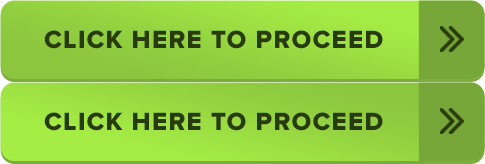
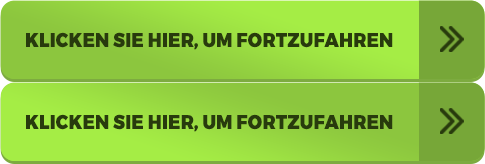
few more translations

Changed region(s): [[0.0309, 0.1829, 0.8351, 0.3049], [0.0309, 0.6707, 0.8351, 0.7927]]

diff --git a/cashformula.com/css/new_mem_style.css?v=3.css b/cashformula.com/css/new_mem_style.css?v=3.css
@@ -160,7 +160,7 @@ img{
 	margin-bottom: 25px;
 }
 #headline-area h2 {
-	font-size: 28px;
+	font-size: 24px;
 	color: #FFFFFF;
 	font-family: 'Gotham Black';
 	padding: 0px;
@@ -168,7 +168,7 @@ img{
 	text-align:left;
 }
 #headline-area h3 {
-	font-size: 28px;
+	font-size: 20px;
 	color: #FFFFFF;
 	font-family: 'Gotham Black';
 	margin: 0px;
@@ -3292,7 +3292,7 @@ button.close { opacity:1 !important;}
 
 .do_next_exit { border:4px solid #feb324; padding:10px;}
 .do_next_exit img { float:left;}
-.do_next_exit p {letter-spacing: 4px; padding:0px 0 0 70px; margin:0px; color:#feb324; font-size:22px;font-family: "Gotham Black";}
+.do_next_exit p {letter-spacing: 4px; padding:0px 0 0 70px; margin:0px; color:#feb324; font-size:17px;font-family: "Gotham Black";}
 .do_next_exit p span { color:#fe6224; font-weight: normal;}
 .do_next_exit p label { letter-spacing: 0;display: block;font-family: "Gotham Bold"; font-weight: normal; font-size:12px; color:#fff;}
 .reminder_licence { text-align: center; color:#fff; padding:20px 0 0;}

diff --git a/cashformula.com/accessapproved.php b/cashformula.com/accessapproved.php
@@ -2,26 +2,20 @@
 <html xmlns="http://www.w3.org/1999/xhtml">
 <head>
   <script src="https://cdn.optimizely.com/js/6585910006.js"></script>
-  
   <meta http-equiv="Content-Type" content="text/html; charset=utf-8" />
-  <title>Only At CashFormula.com</title>
-    <meta name="description" content="Cash Formula multi-billion dollar loophole revealed">
-    <meta name="keywords" content="Cash Formula, Cash Formula Scam, Cash Formula Review">
+  <title>CashFormula-DE.com</title>
+  <meta name="description" content="Cash Formula multi-billion dollar loophole revealed">
+  <meta name="keywords" content="Cash Formula, Cash Formula Scam, Cash Formula Review">
   <meta name="viewport" content="width=device-width, initial-scale=1">
   <link rel='shortcut icon' href='images/favicon3.ico' type='image/x-icon'/>
-
   <!-- Bootstrap -->
   <link rel="stylesheet" type="text/css"  href="css/bootstrap-3.3.6.min.css">
   <link rel="stylesheet" type="text/css" href="css/font-awesome.min.css">
-
   <!-- Stylesheet -->
   <link rel="stylesheet" type="text/css"  href="css/new_mem_style.css%3Fv=3.css">
-  
-      
   <script src="https://ajax.googleapis.com/ajax/libs/jquery/1.11.3/jquery.min.js"></script>
-  
   <link rel="stylesheet" href="css/acord.css" media="screen" />
-    <link rel="stylesheet" href="css/popup.css%3Fv=1.css" media="screen" /><style>
+  <link rel="stylesheet" href="css/popup.css%3Fv=1.css" media="screen" /><style>
     #testi_row2, #testi_row3, #testi_row4{
         display: none;
     }
@@ -79,37 +73,33 @@
                         <div id="vid-screen">
                             <div class="wistia_responsive_padding" style="padding:56.25% 0 0 0;position:relative;">
                                 <div class="wistia_responsive_wrapper" style="height:100%;left:0;position:absolute;top:0;width:100%;">
-                                    <div id="wistia_3lkbyb089n" class="wistia_embed" style="width:100%;height:100%;">&nbsp;</div>
+                                    <iframe src="https://www.youtube.com/embed/V_YKwDkvnOk?controls=0&amp;showinfo=0&amp;rel=0&amp;title=0&amp;autohide=1&amp;wmode=transparent&amp;hd=1&amp;autoplay=0" allowtransparency="true" frameborder="0" scrolling="no" class="wistia_embed" name="wistia_embed" allowfullscreen mozallowfullscreen webkitallowfullscreen oallowfullscreen msallowfullscreen width="100%" height="100%" frameborder="0" allowfullscreen="allowfullscreen"></iframe>
                                 </div>
                             </div>
-                            <script charset="ISO-8859-1" src="http://fast.wistia.com/assets/external/E-v1.js"></script>
-                            <script>
-                                wistiaEmbed = Wistia.embed("3lkbyb089n", {videoFoam: true});
-                            </script>
                         </div>
                     </center>
                 </div>
                 <div class="col-md-6">
                     <div id="headline-area">
-                        <h5>WELCOME ABOARD!</h5>
-                        <h2 align="center">Click The Button Below To Secure <img src="images/green_down_arrow.png" alt="" style="vertical-align: bottom;"/></h2>
-                        <h3 align="center"><span class="orange-txt">One</span> of the Remaining <img src="images/white_logo_tm.png" alt="" align="absmiddle" /><!--<span class="register-logo">&trade;</span> --> Spots </h3>
+                        <h5>WILLKOMMEN AN BORD!</h5>
+                        <h2 align="center">Klicken Sie unten auf die Schaltfläche, um sich <img src="images/green_down_arrow.png" alt="" style="vertical-align: bottom;"/></h2>
+                        <h3 align="center"><span class="orange-txt">Einen</span> der verbleibenden Plätze zu <img src="images/white_logo_tm.png" alt="" align="absmiddle" /><!--<span class="register-logo">&trade;</span> --> sichern </h3>
                     </div>
                     <div class="clearfix"></div>
                     <div class="do_next_exit">
                         <img src="images/wait-icon2.png" alt="" align="absmiddle" />
                         <p>
-                            PLEASE <span>DO NOT</span> EXIT THIS PAGE
-                            <label>Or your spot will be given to the next person in line waiting to watch this video.</label>
+                            BITTE <span>VERLASSEN SIE</span> DIESE SEITE NICHT
+                            <label>Oder Ihr Platz wird an die nächste Person in der Reihe vergeben, die darauf wartet, sich dieses Video anzuschauen.</label>
                         </p>
                     </div>
                     <div class="clearfix"></div>
                     <div class="form-box1">
-                        <form id="form1" name="form1" method="post" action="accessapproved.php.html">
+                        <form id="form1" name="form1" method="post" action="accessapproved.php">
                             <div class="row">
                                 <div class="col-md-8 sub-btn2arr-n">
                                     <label>
-                                        <input name="" type="button" value="I Want My Free Account Now      &gt;&gt;" class="sub-btn2-n" onclick="gotoMem();"/>
+                                        <input name="" type="button" value="Ich will jetzt mein kostenloses Konto       &gt;&gt;" class="sub-btn2-n" onclick="gotoMem();"/>
                                     </label>
                                 </div>
                                 <div class="col-md-4">
@@ -117,8 +107,6 @@
                                 </div>
                             </div>
                         </form>
-                        <!-- <p align="center" class="gurantee-txt"><img src="images/lock-icon.png" alt=""  align="absmiddle" /> GUARANTEED SECURE ACCESS ENSURED BY TRUSTED COMPANIES</p>
-                        <p align="center" class="verify"><img src="images/verisign.png" alt=""  /> <img src="images/mcafee.png" alt=""  /> <img src="images/truste.png" alt="" /> <img src="images/norton.png" alt="" /></p> -->
                     </div>
 
                 </div>
@@ -133,10 +121,9 @@
                     <div class="fe1_testimonial">
                         <img src="ms/testys/claire3.png" alt="t1" />
                         <p>
-                            When I met Tim, he decided to give me something much more
-                            valuable than any job.  He gave me hope, he gave me the Formula.
-                            I turned it on and it’s never been off since.
-                            <span><label class="green-txt">Claire D.</label> made <label class="green-txt">$1,221,905.37</label> with the Cash Formula!</span>
+                            Als ich Tim traf, entschied er sich, mir etwas viel wertvolleres als irgendeinen Job zu geben. Er gab mir Hoffnung, er gab mir die Formula. Ich habe es angestellt und seither läuft es durch.
+                            <span><label class="green-txt">Claire D.</label> hat <label class="green-txt">1,221,905.37$</label> mit der Cash
+                                Formula-DE verdient!</span>
                         </p>
                     </div>
                 </div>
@@ -144,10 +131,9 @@
                     <div class="fe1_testimonial">
                         <img src="ms/testys/ron3.png" alt="t1" />
                         <p>
-                            I was one of Tim’s very first students.  I’ve been using the Cash
-                            Formula for a couple of years now and the Options Trading
-                            market has been the most profitable so far!  Tim - you are the man!
-                            <span><label class="green-txt">Ron W.</label> made <label class="green-txt">$5,301,629.71</label> with the Cash Formula!</span>
+                            Ich war einer der allerersten Studenten von Tim. Ich nutze die Cash Formula-DE jetzt seit ein paar Jahren und der Handel mit Optionen war bisher der profitabelste! Tim - Sie sind der Mann!
+                            <span><label class="green-txt">Ron W.</label> hat <label class="green-txt">5,301,629.71$</label> mit der Cash
+                                Formula-DE verdient!</span>
                         </p>
                     </div>
                 </div>
@@ -155,10 +141,10 @@
                     <div class="fe1_testimonial">
                         <img src="ms/testys/randy3.png" alt="t1" />
                         <p>
-                            The Cash Formula is totally hands off and I was never charged
-                            a dime for access, ever!  Tim and the Cash Formula totally
-                            changed my life forever!
-                            <span><label class="green-txt">Randy N.</label> made <label class="green-txt">$3,014,183.54</label> with the Cash Formula!</span>
+                            Die Cash Formula-DE funktioniert vollautomatisch ich musste niemals einen Cent für die Nutzung bezahlen! Tim und die Cash
+                            Formula-DE haben mein Leben für immer völlig verändert!
+                            <span><label class="green-txt">Randy N.</label> hat <label class="green-txt">3,014,183.54$</label> mit der Cash
+                                Formula-DE verdient!</span>
                         </p>
                     </div>
                 </div>
@@ -168,11 +154,9 @@
                     <div class="fe1_testimonial">
                         <img src="ms/testys/juan3.png" alt="t1" />
                         <p>
-                            My past life of being broke feels like a bad nightmare.  Now when
-                            I log into my bank account, I’m seeing multiple 6 figures!  This is
-                            my new reality and ever since I signed up for the Cash Formula, the
-                            money hasn’t stopped.  This is amazing Tim!
-                            <span><label class="green-txt">Juan R.</label> made <label class="green-txt">$778,469.09</label> with the Cash Formula!</span>
+                            Mein bisheriges Leben mit Schulden fühlt sich wie ein schlechter Albtraum an. Wenn ich mich jetzt in mein Bankkonto einlogge, sehe ich 6-stellige Zahlen! Dies ist meine neue Realität und seit ich mich für die Cash Formula-DE angemeldet habe, hat der Geldfluss nicht aufgehört. Dies ist unglaublich, Tim!
+                            <span><label class="green-txt">Juan R.</label> hat <label class="green-txt">778,469.09$</label> mit der Cash
+                                Formula-DE verdient!</span>
                         </p>
                     </div>
                 </div>
@@ -180,11 +164,9 @@
                     <div class="fe1_testimonial">
                         <img src="ms/testys/lauren3.png" alt="t1" />
                         <p>
-                            The Cash Formula saved my marriage!  The Formula allows
-                            you to see happiness in all areas of your life.  That’s the best
-                            part.  It’s funded all my creative ideas and I can’t say enough
-                            about Tim and the Cash Formula Team!
-                            <span><label class="green-txt">Lauren N.</label> made <label class="green-txt">$2,881,949.11</label> with the Cash Formula!</span>
+                            Die Cash Formula-DE hat meine Ehe gerettet! Die Formula ermöglicht Ihnen, Glück in allen Bereichen Ihres Lebens zu sehen. Das ist das Beste daran. Es hat alle meine kreativen Ideen gefördert und ich kann gar nicht genug über Tim und das Team von Cash Formula-DE sagen!
+                            <span><label class="green-txt">Lauren N.</label> hat <label class="green-txt">2,881,949.11$</label> mit der Cash
+                                Formula-DE verdient!</span>
                         </p>
                     </div>
                 </div>
@@ -192,11 +174,9 @@
                     <div class="fe1_testimonial">
                         <img src="ms/testys/julia3.png" alt="t1" />
                         <p>
-                            In the first 30 days I didn’t touch the money.  My first big
-                            withdrawal was $5,000 and I gave that money to my mom.
-                            My first big purchase was my new car - it was heavenly to
-                            step into my new Mercedes!
-                            <span><label class="green-txt">Julia L.</label> made <label class="green-txt">$947,172.55</label> with the Cash Formula!</span>
+                            In den ersten 30 Tagen habe ich das Geld nicht angefasst. Meine erste große Auszahlung war 5.000$ und ich gab das Geld meiner Mutter. Meine erste große Anschaffung war mein neues Auto - es war himmlisch, mich in meinen neuen Mercedes zu setzen!
+                            <span><label class="green-txt">Julia L.</label> hat <label class="green-txt">947,172.55$</label> mit der Cash
+                                Formula-DE verdient!</span>
                         </p>
                     </div>
                 </div>
@@ -206,10 +186,9 @@
                     <div class="fe1_testimonial">
                         <img src="ms/testys/ellen3.png" alt="t1" />
                         <p>
-                            I met Tim four years ago and have made hundreds of thousands
-                            of dollars as a result of using the Cash Formula.  I wouldn’t be
-                            where I am today if it wasn’t for Tim and the Cash Formula!
-                            <span><label class="green-txt">Ellen G.</label> made <label class="green-txt">$810,492.47</label> with the Cash Formula!</span>
+                            Ich traf Tim vor vier Jahren und habe durch die Nutzung der Cash Formula-DE Hunderttausende von Dollar verdient. Ohne Tim und die Cash Formula-DE wäre ich heute nicht dort, wo ich jetzt bin!
+                            <span><label class="green-txt">Ellen G.</label> hat <label class="green-txt">810,492.47$</label> mit der Cash
+                                Formula-DE verdient!</span>
                         </p>
                     </div>
                 </div>
@@ -217,10 +196,9 @@
                     <div class="fe1_testimonial">
                         <img src="ms/testys/clark3.png" alt="t1" />
                         <p>
-                            I haven’t shut this thing off a single minute since I initially signed
-                            up.  I was able to pay my back taxes and have much more money
-                            to spare.  I can’t thank you enough Tim!
-                            <span><label class="green-txt">Clark G.</label> made <label class="green-txt">$4,639,058.28</label> with the Cash Formula!</span>
+                            Ich habe dieses Ding nicht eine einzige Minute ausgeschaltet seit ich mich angemeldet habe. Ich konnte meine Steuern zurückzahlen und habe noch viel mehr Geld zum Sparen. Ich kann Ihnen nicht genug danken, Tim!
+                            <span><label class="green-txt">Clark G.</label> hat <label class="green-txt">4,639,058.28$</label> mit der Cash
+                                Formula-DE verdient!</span>
                         </p>
                     </div>
                 </div>
@@ -228,11 +206,9 @@
                     <div class="fe1_testimonial">
                         <img src="ms/testys/monique3.png" alt="t1" />
                         <p>
-                            I’ve invested a large portion of my earnings right back into the
-                            Cash Formula.  The system has generated a 76% return on my
-                            investment.  This is the most valuable and powerful system on
-                            the market today!
-                            <span><label class="green-txt">Monique S.</label> made <label class="green-txt">$1,629,827.45</label> with the Cash Formula!</span>
+                            Ich habe einen großen Teil meiner Einnahmen direkt zurück in die Cash Formula-DE investiert. Das System hat eine 76% Rendite auf mein Investment generiert. Dies ist heute das wertvollste und leistungsstärkste System auf dem Markt!
+                            <span><label class="green-txt">Monique S.</label> hat <label class="green-txt">1,629,827.45$</label> mit der Cash
+                                Formula-DE verdient!</span>
                         </p>
                     </div>
                 </div>
@@ -242,10 +218,9 @@
                     <div class="fe1_testimonial">
                         <img src="ms/testys/phillip3.png" alt="t1" />
                         <p>
-                            I’ve saved all the money made from the Cash Formula and
-                            it goes directly into a mutual fund where I get a decent return.
-                            My goal is to make as much as I can and let it last for generations.
-                            <span><label class="green-txt">Phillip L.</label> made <label class="green-txt">$3,855,613.94</label> with the Cash Formula!</span>
+                            Ich habe das gesamte, durch die Cash Formula-DE verdiente Geld gespart und es geht direkt in einen Investmentfonds, wo ich eine anständige Rendite bekomme. Mein Ziel ist, so viel wie möglich zu verdienen, damit es für Generationen reicht.
+                            <span><label class="green-txt">Phillip L.</label> hat <label class="green-txt">3,855,613.94$</label> mit der Cash
+                                Formula-DE verdient!</span>
                         </p>
                     </div>
                 </div>
@@ -253,10 +228,9 @@
                     <div class="fe1_testimonial">
                         <img src="ms/testys/richard3.png" alt="t1" />
                         <p>
-                            I got my wife a new wedding ring and we renewed our vows.
-                            That was my first large purchase thanks to the Cash Formula.
-                            Additionally, I’ve been reinvesting into stocks and bonds.
-                            <span><label class="green-txt">Richard M.</label> made <label class="green-txt">$2,881,949.11</label> with the Cash Formula!</span>
+                            Ich habe meiner Frau einen neuen Ehering gekauft und wir haben unsere Ehegelübde erneuert. Dank der Cash Formula-DE war das meine erste große Anschaffung. Darüber hinaus habe ich in Aktien und Anleihen reinvestiert.
+                            <span><label class="green-txt">Richard M.</label> hat <label class="green-txt">2,881,949.11$</label> mit der Cash
+                                Formula-DE verdient!</span>
                         </p>
                     </div>
                 </div>
@@ -264,10 +238,9 @@
                     <div class="fe1_testimonial">
                         <img src="ms/testys/louise3.png" alt="t1" />
                         <p>
-                            I have made over $10,000 in 3 days of using the Cash Formula.
-                            The Formula predicts this amount to double over the next
-                            few days.  Thanks Tim - Finally something that works!
-                            <span><label class="green-txt">Louise M.</label> made <label class="green-txt">$1,059,371.60</label> with the Cash Formula!</span>
+                            Ich habe in 3 Tagen über 10.000$ mit der Cash Formula-DE verdient. Die Formula prognostiziert eine Verdopplung dieses Betrags in den nächsten Tagen. Vielen Dank Tim - endlich etwas, das funktioniert!
+                            <span><label class="green-txt">Louise M.</label> hat <label class="green-txt">1,059,371.60$</label> mit der Cash
+                                Formula-DE verdient!</span>
                         </p>
                     </div>
                 </div>
@@ -281,14 +254,15 @@
     <div class="">
         <div class="row">
             <div class="col-md-5 copyright">
-                <img src="images/header-logo-tm3.png" alt="" width="184" height="31" align="absmiddle" /> &copy; 2016 CashFormula. All Rights Reserved.      </div>
+                <img src="images/header-logo-tm3.png" alt="" width="184" height="31" align="absmiddle" /> &copy; 2016 CashFormula-DE. Alle Rechte
+                vorbehalten.     </div>
             <div class="col-md-7 footer-links">
-                <a target="_blank" href="usdisclaimer.php">Government Disclaimer</a> |
-                <a target="_blank" href="privacy.php">Privacy Policy</a> |
-                <a target="_blank" href="tos.php">Terms</a> |
-                <a target="_blank" href="disclaimer.php">Earnings Disclaimer</a> |
-                <a target="_blank" href="anti_spam_policy.php">Spam Policy</a> |
-                <a href="mailto:support@cashformulamembersarea.com">Support</a>
+                <a target="_blank" href="usdisclaimer.php">Staatlicher Haftungsausschluss</a> |
+                <a target="_blank" href="privacy.php">Datenschutzrichtlinien</a> |
+                <a target="_blank" href="tos.php">Bestimmungen</a> |
+                <a target="_blank" href="disclaimer.php">Gewinn-Haftungsausschluss</a> |
+                <a target="_blank" href="anti_spam_policy.php">Spam-Richtlinien</a> |
+                <a href="mailto:support@cashformulamembersarea.com">Hilfe</a>
             </div>
         </div>
     </div>
@@ -306,8 +280,14 @@
                 <button type="button" class="close close_n" onclick="close_overlay();"><span aria-hidden="true"><img src="images/cross-icon-org.png" width="30" alt="" /></span></button>
                 <div class="chance_wrap">
                     <div class="chance_headr">
-                        <h2 style="color: #fff; padding: 10px 45px; margin-bottom: 0px; font-size: 20px; text-align: center; font-weight: bold;">THIS QUALIFIES YOU FOR AN INSTANT CASH BONUS OF UP TO $10,000!</h2>
-                        <div id="overVid"><img src="images/video_img.jpg" alt="" /></div>
+                        <h2 style="color: #fff; padding: 10px 45px; margin-bottom: 0px; font-size: 20px; text-align: center; font-weight: bold;">DIES BERECHTIGT SIE FÜR EINEN SOFORTIGEN BARGELD-BONUS VON BIS ZU 10.000$!</h2>
+                        <div id="overVid">
+                            <div class="wistia_responsive_padding" style="padding:56.25% 0 0 0;position:relative;">
+                                <div class="wistia_responsive_wrapper" style="height:100%;left:0;position:absolute;top:0;width:100%;">
+                                    <iframe src="https://www.youtube.com/embed/V_YKwDkvnOk?controls=0&amp;showinfo=0&amp;rel=0&amp;title=0&amp;autohide=1&amp;wmode=transparent&amp;hd=1&amp;autoplay=0" allowtransparency="true" frameborder="0" scrolling="no" class="wistia_embed" name="wistia_embed" allowfullscreen mozallowfullscreen webkitallowfullscreen oallowfullscreen msallowfullscreen width="100%" height="100%" frameborder="0" allowfullscreen="allowfullscreen"></iframe>
+                                </div>
+                            </div>
+                        </div>
                         <p>&nbsp;</p>
                     </div>
                     <div class="modal_form">
@@ -405,7 +385,7 @@
     var exitsplashmessage = '***************************************\n W A I T   B E F O R E   Y O U   G O !\n\n  CLICK *STAY ON THIS PAGE* BUTTON RIGHT NOW\n     TO STAY GET THE EXACT METHOD THAT\n  BANKED ME $35,827.29 IN JUST 24 HOURS!\n\n     >> STAY ON THIS PAGE <<\n\n***************************************';
     var exitsplashpage = 'approved.php';
 </script>
-<script language="javascript" src="exitsplash.html%3Fv=1.html"></script>
+
 
 </body>
 </html>

diff --git a/cashformula.com/index.php b/cashformula.com/index.php
@@ -125,7 +125,7 @@
                 <img src="images/header-logo-tm3.png" alt="" width="184" height="31" align="absmiddle" /><!-- <span class="register-logo">&trade;</span> -->
             </div>
             <div class="col-md-7 footer-links">
-                <p>&copy; 2016 CashFormula. Alle Rechte vorbehalten.</p>
+                <p>&copy; 2016 CashFormula-DE. Alle Rechte vorbehalten.</p>
                 <a target="_blank" href="usdisclaimer.php">Staatlicher Haftungsausschluss</a> |
                 <a target="_blank" href="privacy.php">Datenschutzrichtlinien</a> |
                 <a target="_blank" href="tos.php">Bestimmungen</a> |
